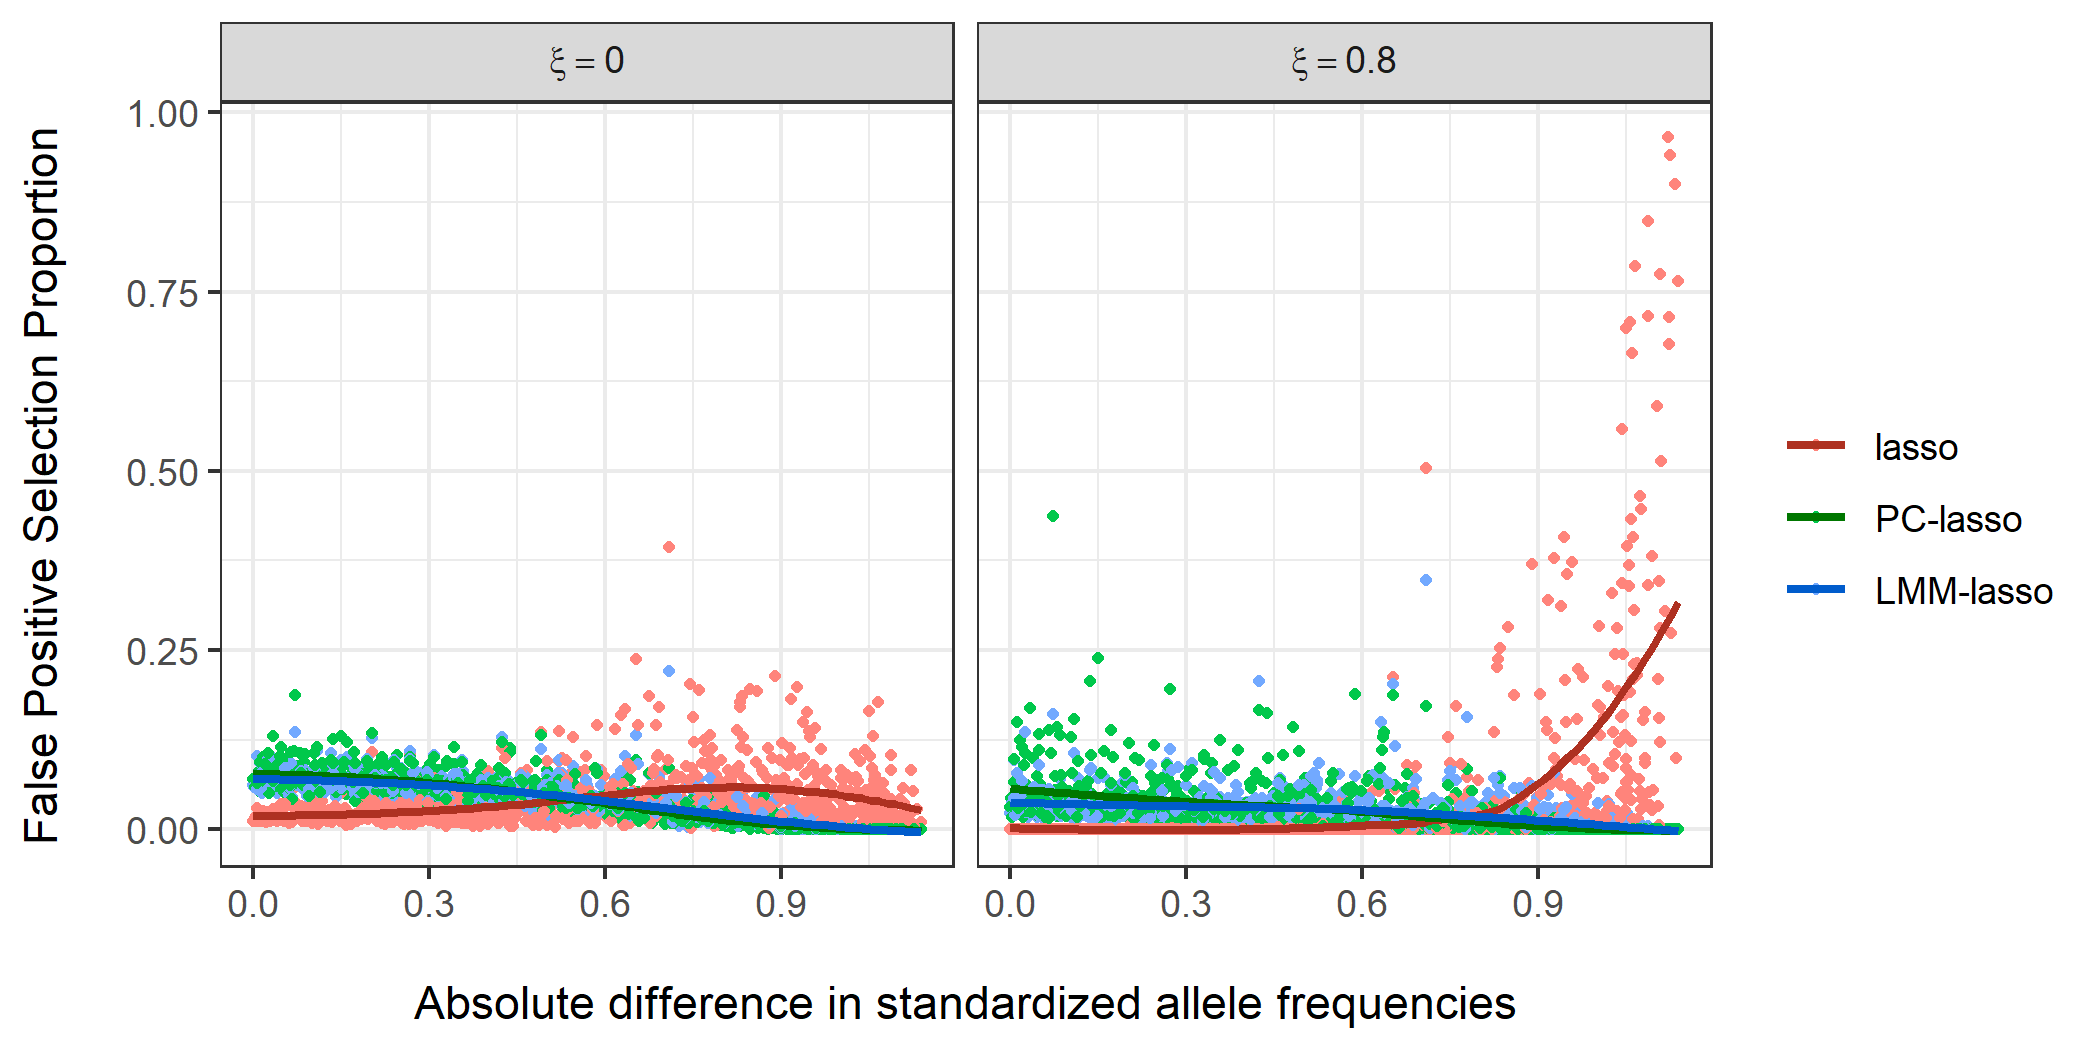
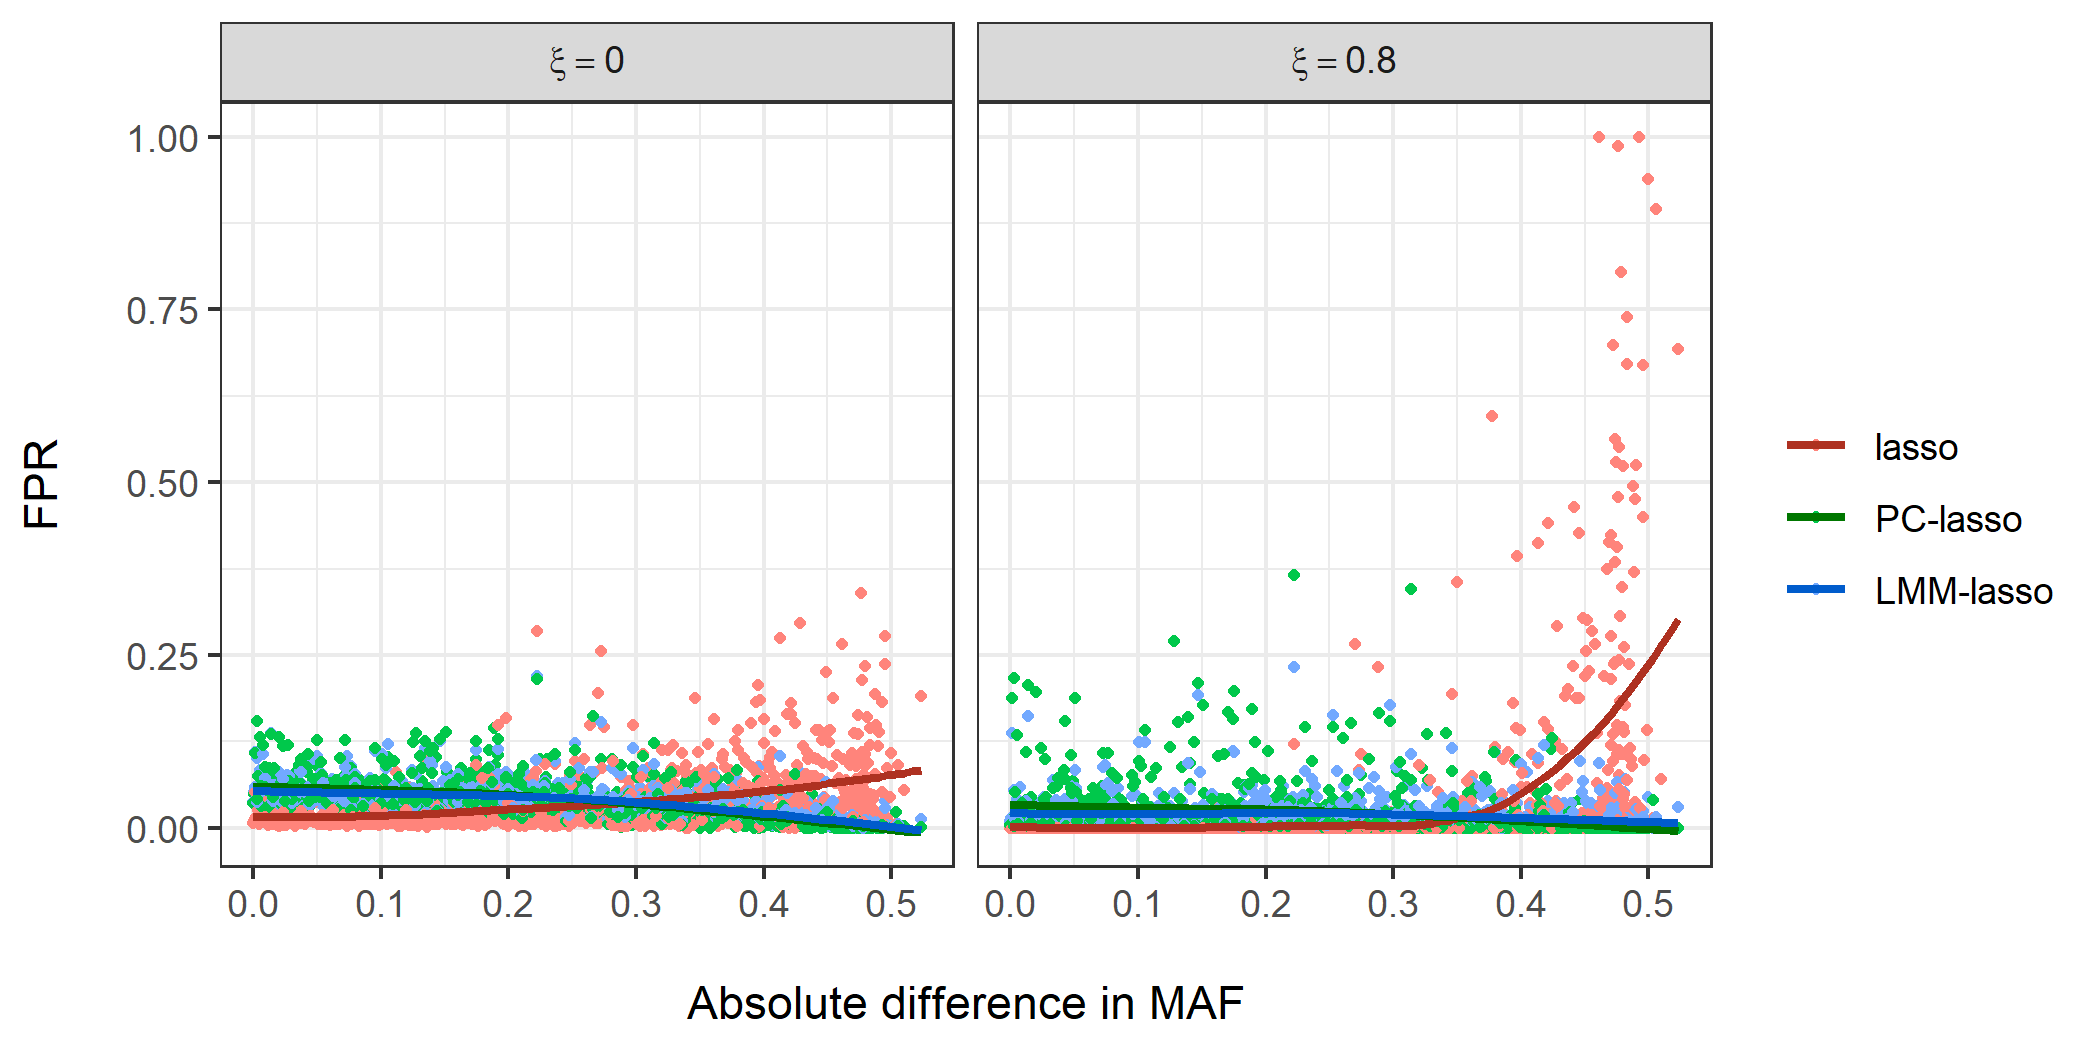
Figure 2 boxplot and related edits.

diff --git a/main.tex b/main.tex
@@ -315,9 +315,7 @@ For the fully simulated data, two subpopulation structures were considered, whic
 
 \subsubsection{Patterns of environmental effects}
 
-For each $\bX$ matrix, $\bZ$ was a corresponding incidence matrix of 1s and 0s identifying subpopulation, or founding population membership, which assigns the corresponding environmental effect found in $\bgamma$. Various $\bgamma$ patterns were considered in order to investigate the effects of distinct and complex patterns of environmental confounding. Firstly, we considered two different patterns of effect magnitudes, which we refer to as exponential and dichotomous. We use the term dichotomous to describe two effect sizes each experienced by half of the population, regardless of the number of subpopulations, while exponential effects refer to a unique effect size for each subpopulation with exponentially increasing magnitudes. Secondly, we considered whether individuals in genetically similar subpopulations would experience similar environmental effects. We refer to environmental effects that are similar among genetically similar subpopulations as concordant, and to those that are not as discordant. \anna{We examined these but found they didn't make a huge difference in performance so we don't focus on them.}
-
-% For example, a geographic environmental exposure such as the air quality described in our motivating example is likely to be similar among genetically related individuals due to concordance between genetic clusters and geography. However, behavior-based environmental exposures may be less likely to be shared by subpopulations which are genetically and geographically similar. As an example, \citet{ng2014smoking} found considerable within-region variation in smoking rates in Africa, Asia, and South America. 
+For each $\bX$ matrix, $\bZ$ was a corresponding incidence matrix of 1s and 0s identifying subpopulation, or founding population membership, which assigns the corresponding environmental effect found in $\bgamma$. Various $\bgamma$ patterns were considered in order to investigate the effects of distinct and complex patterns of environmental confounding. Firstly, we considered two different patterns of effect magnitudes, which we refer to as exponential and dichotomous. We use the term dichotomous to describe two effect sizes each experienced by half of the population, regardless of the number of subpopulations, while exponential effects refer to a unique effect size for each subpopulation with exponentially increasing magnitudes. Secondly, we considered whether individuals in genetically similar subpopulations would experience similar environmental effects. We refer to environmental effects that are similar among genetically similar subpopulations as concordant, and to those that are not as discordant. \anna{We examined all combinations of these patterns of environmental effects, but found they did not result in appreciable differences in performance. We thus focus our attention elsewhere.}
 
 \subsubsection{Tuning parameter selection}
 Selection of the tuning parameter $\lambda$ plays an important role in all penalized regression methods, with many possible approaches. Here, for each model, we selected the $\lam$ value such that 50 SNPs were selected (recall that 50 is also the true number of causal SNPs). This method for selecting $\lambda$ was chosen in an attempt to compare the performance of all methods fairly, and as a strategy to evaluate methods in terms of variable selection, as it allows for direct comparison of the first 50 variables each method lets into the model.
@@ -350,13 +348,9 @@ We begin by comparing the ordinary lasso, PC-lasso, and LMM-lasso as the level o
 
 The bottom row of Figure \ref{fig:mse} shows the MSE when $\xi = 0.8$. In this case, both PC-lasso and LMM-lasso clearly outperform the ordinary lasso. This improvement is more substantial in the Empirical and Independent Subpopulations data than in the 1D Linear Admixture data. This is due to the fact that the Independent Subpopulations and Empirical data sets are characterized by nonoverlapping genetic subpopulations, meaning that a greater proportion of the environmental effect is in the column space of $\boldsymbol{P}_{\bX}$. We can quantify the proportion of the environmental component in the column space of $\boldsymbol{P}_{\bX}$ for each data type using the CP metric defined in \eqref{eqn:ratio} of Section \ref{sec:sim_env_conf}. Here, we have CP $= 0.47, 0.99$ for the 1D Linear Admixture and Independent Subpopulations, respectively. The large CP of the Independent Subpopulations model reflects the extreme confounding and estimation bias for this data, for which the PC-lasso and LMM-lasso methods are able to correct. Meanwhile, the less dramatic improvement in MSE for the 1D Linear Admixture data by the PC-lasso and LMM-lasso methods confirms what we know from this data's substantially smaller CP value; that there is less confounding and bias which can be corrected for. 
 
-Due to the differing sample sizes and subpopulation structures, a direct comparison of the Empirical data, which has a CP $= 0.87$, with those from the simulated data sets is not straightforward. We note that the CP decreases in the presence of subpopulations of unequal sizes and with more outbred subpopulations as is the case in the Empirical data.
+Due to the differing sample sizes and subpopulation structures, a direct comparison of the Empirical data, which has a CP $= 0.87$, with those from the simulated data sets is not straightforward. We note that the CP decreases in the presence of subpopulations of unequal sizes and with more complex population structure as is the case in the Empirical data.
 
-% \anna{MSPE here (?)}
-
-% \anna{talk about karl rohe stuff here - if anywhere}
-
-In addition to MSE, these methods' performance was also assessed in terms of variable selection using the true positive rate (TPR) \anna{technically this is true sign rate - only estimates with the correct sign are counted. Explain this? Calculate overall selection instead?} for the first 50 variables each method allowed into the model. Table \ref{tab:var_sel} displays the average TPR for the same settings as in Figure \ref{fig:mse}. The TPRs echo the MSE results in that lasso and LMM-lasso perform comparably in the absence of environmental confounding across all data types, while the addition of the 10 unpenalized PCs leads to a slight decrease in TPR in this setting for the 1D Linear Admixture and Independent Subpopulations data sets. In the presence of environmental confounding, both LMM-lasso and PC-lasso achieve substantial improvements in TPR over the ordinary lasso. As with the MSE data, these improvements are more substantial in the Independent Subpopulations and Empirical data sets than in the 1D Linear Admixture data.
+In addition to MSE, these methods' performance was also assessed in terms of variable selection using the true positive rate (TPR) for the first 50 variables each method allowed into the model. \anna{Throughout this work, we refer to a selection as true positive only if it is selected and the sign of the coefficient is estimated correctly.} Table \ref{tab:var_sel} displays the average TPR for the same settings as in Figure \ref{fig:mse}. The TPRs echo the MSE results in that lasso and LMM-lasso perform comparably in the absence of environmental confounding across all data types, while the addition of the 10 unpenalized PCs leads to a slight decrease in TPR in this setting for the 1D Linear Admixture and Independent Subpopulations data sets. In the presence of environmental confounding, both LMM-lasso and PC-lasso achieve substantial improvements in TPR over the ordinary lasso. As with the MSE data, these improvements are more substantial in the Independent Subpopulations and Empirical data sets than in the 1D Linear Admixture data.
 
 \begin{table}[H]
 \centering
@@ -383,14 +377,33 @@ $\eta$ & $\xi$ & \multicolumn{1}{c}{Method} & 1D Linear Admixture & Independent 
 
 In the previous section we saw how in the presence of confounding, LMM-lasso and PC-lasso outperform the ordinary lasso in selection accuracy. Additionally, as we described in Section \ref{sec:example}, subpopulation differences in allele frequencies are known to have the potential to lead to spurious associations. As such it is of interest to characterize these methods' selection accuracy in terms of how robust they are to allele frequency differences. 
 
-In order to assess the behavior of these methods in this context, we conducted a simulation using the parameter settings presented in Figure \ref{fig:mse} and Table \ref{tab:var_sel} and a modified version of the Empirical data. In order to quantify the absolute difference in subpopulation-specific allele frequencies in an straightforward, interpretable manner, we limited the Empirical data to that of the white and African American subpopulations. Figure \ref{fig:pop_inf} shows the relationship between a given SNP's false positive rate (FPR) and its absolute difference in standardized allele frequency between the two supopulations. 
+In order to assess the behavior of these methods in this context, we conducted a simulation using the parameter settings presented in Figure \ref{fig:mse} and Table \ref{tab:var_sel} and a modified version of the Empirical data. In order to quantify the absolute difference in subpopulation-specific allele frequencies in an straightforward, interpretable manner, we limited the Empirical data to that of the white and African American subpopulations. Figure \ref{fig:pop_inf} summarizes the relationship between a given SNP's false positive rate (FPR) and its absolute difference in MAF between the two supopulations. The top panel of Figure \ref{fig:pop_inf} summarizes the marginal relationship between FPR and MAF differences, while the lower panel shows the association between SNPs falsely selected by each method and MAF differences.  
 
  \begin{figure}[H]
     \centering
-    \includegraphics[scale = 0.9]{figures/pop_inf_snps_loess.png}
-    \caption{\anna{Non-causal SNP selection / SNP FPR (?)} in the presence of varying levels of population informative SNPs and environmental confounding for two Empirical subpopulations, dichotomous-discordant effects, $\eta = 0.5$.}
+    \includegraphics[width = \textwidth]{figures/pop_inf_snps.png}
+    \caption{\anna{Association of population informative nature of SNPs and false selection across methods in the presence and absence of environmental confounding for two Empirical subpopulations, dichotomous-discordant effects, $\eta = 0.5$.}}
     \label{fig:pop_inf}
 \end{figure}
+
+%\begin{figure}[H]
+%\begin{subfigure}{\textwidth}
+%  \centering
+%  % include first image
+%  \includegraphics[scale = 0.9]{figures/pop_inf_snps_loess.png}  
+%  \caption{FPR in the presence of varying levels of population informative SNPs.}
+%  \label{fig:pop_inf_scatter}
+%\end{subfigure}
+%\begin{subfigure}{\textwidth}
+%  \centering
+%  % include second image
+%  \includegraphics[scale = 0.9]{figures/pop_inf_snps_box.png}  
+%  \caption{Absolute allele frequency differences of falsely selected, non-causal SNPs across methods.}
+%  \label{fig:pop_inf_box}
+%\end{subfigure}
+%\caption{Association of population informative nature of SNPs and false selection across methods in the presence and absence of environmental confounding for for two Empirical subpopulations, dichotomous-discordant effects, $\eta = 0.5$.}
+%\label{fig:pop_inf}
+%\end{figure}
 
 \anna{maybe no table ? If table, make more like table 1}
 \begin{table}[H]
@@ -399,47 +412,21 @@ In order to assess the behavior of these methods in this context, we conducted a
   \hline
 eta & xi & Method & $r_s$ \\ 
   \hline
-0.5 & 0.0 & lasso & 0.34 \\ 
-  0.5 & 0.0 & PC-lasso & -0.92 \\ 
-  0.5 & 0.0 & LMM-lasso & -0.89 \\ 
-  0.5 & 0.8 & lasso & 0.78 \\ 
-  0.5 & 0.8 & PC-lasso & -0.82 \\ 
-  0.5 & 0.8 & LMM-lasso & -0.67 \\ 
+0.5 & 0.0 & lasso & 0.42 \\ 
+  0.5 & 0.0 & PC-lasso & -0.77 \\ 
+  0.5 & 0.0 & LMM-lasso & -0.71 \\ 
+  0.5 & 0.8 & lasso & 0.67 \\ 
+  0.5 & 0.8 & PC-lasso & -0.61 \\ 
+  0.5 & 0.8 & LMM-lasso & -0.34 \\ 
    \hline
 \end{tabular}
-\caption{Spearman's rank correlation coefficient between \anna{non-causal SNP selection / SNP FPR (?)} and absolute difference in standardized allele frequencies across methods.}
+\caption{\anna{Spearman's rank correlation coefficient between SNP FPR and absolute difference in standardized allele frequencies across methods.}}
 \label{tab:pop_inf}
 \end{table}
 
-\begin{comment}
-\anna{Another way to quantify this...(?)}
-\begin{table}[H]
-\centering
-\begin{tabular}{rlrrr}
-  \hline
-xi & chunks & lasso & lasso\_pca10 & plmm\_lasso \\ 
-  \hline
-0.0 & 1 & 0.108 & 0.187 & 0.135 \\ 
-  0.0 & 2 & 0.394 & 0.132 & 0.221 \\ 
-  0.0 & 3 & 0.214 & 0.049 & 0.071 \\ 
-  0.8 & 1 & 0.005 & 0.437 & 0.161 \\ 
-  0.8 & 2 & 0.504 & 0.188 & 0.348 \\ 
-  0.8 & 3 & 0.966 & 0.084 & 0.157 \\ 
-   \hline
-\end{tabular}
-\caption{Max FPR for each method, $\xi$, and level of difference (low, med, high)}
-\end{table}
-\end{comment}
+\anna{Table \ref{tab:pop_inf} displays the Spearman's rank correlation coefficient for each of these scenarios.} In the absence of environmental confounding, the lasso demonstrates a moderately positive correlation with allele frequency differences ($r_s = 0.42$), while the PC-lasso and LMM-lasso methods are negatively correlated with allele frequency differences. Overall, however, the FPR does not exceed 0.39, 0.19, and 0.22 for the lasso, PC-lasso, and LMM-lasso methods, respectively.  
 
-
-\anna{Table \ref{tab:pop_inf} displays the Spearman's rank correlation coefficient for each of these scenarios.} In the absence of environmental confounding, the lasso demonstrates a moderately positive correlation with allele frequency differences ($r_s = 0.34$), while the PC-lasso and LMM-lasso methods are negatively correlated with allele frequency differences. Overall, however, the FPR does not exceed 0.39, 0.19, and 0.22 for the lasso, PC-lasso, and LMM-lasso methods, respectively.  
-%\anna{We attribute these associations to the presence of population structure (in other words, correlated observations) and thus artificially shrunken errors in the case of the lasso. For PC-lasso and LMM-lasso, the absence of a non-genetic mechanism by which population structure directly affects the outcome, results in a slight over-correction for both, resulting in their moderately negative correlations. }
-
-In the presence of confounding, however, lasso's correlation with allele frequency increases ($r_s = 0.78$), and particularly struggles to correctly select the most population-informative SNPs. PC-lasso and LMM-lasso are able to remain more robust to allele frequency differences, yet remain somewhat negatively correlated with allele frequency differences. This is advantageous in preventing dramatically high FPRs in the presence of highly population-informative SNPs.
-
-\anna{LMM-lasso seems to exhibit even stronger control of this than PC-lasso.}
-
-%In both scenarios, LMM-lasso is more robust to allele frequency differences than PC-lasso due to the presence of \anna{finer grained relatedness in addition to population stratification in the Empirical data.} This echoes the superior TPRs of LMM-lasso compared to that of the PC-lasso in the case of the Empirical data in Table \ref{tab:var_sel}.
+In the presence of confounding, however, lasso's correlation with allele frequency increases ($r_s = 0.67$), and particularly struggles to correctly select the most population-informative SNPs. PC-lasso and LMM-lasso are able to remain more robust to allele frequency differences, yet remain somewhat negatively correlated with allele frequency differences. This is advantageous in preventing dramatically high FPRs in the presence of highly population-informative SNPs. From a marginal perspective, LMM-lasso seems to exhibit even stronger control of this than PC-lasso. This echoes the superior TPRs of LMM-lasso compared to those of the PC-lasso for the Empirical data in Table \ref{tab:var_sel}. Conditional on selection, however, LMM-lasso may be more likely to confuse MAF differences with true signal.
 
 %------------------------------%
 \subsection{LMM-lasso outperforms PC-lasso for finer population structures}

diff --git a/lmm-genetic-review.tex b/lmm-genetic-review.tex
@@ -33,8 +33,6 @@
   },postaction={decorate}}
 }
 
-
-
 \usepackage{subcaption}
 \usepackage{url}
 \allowdisplaybreaks
